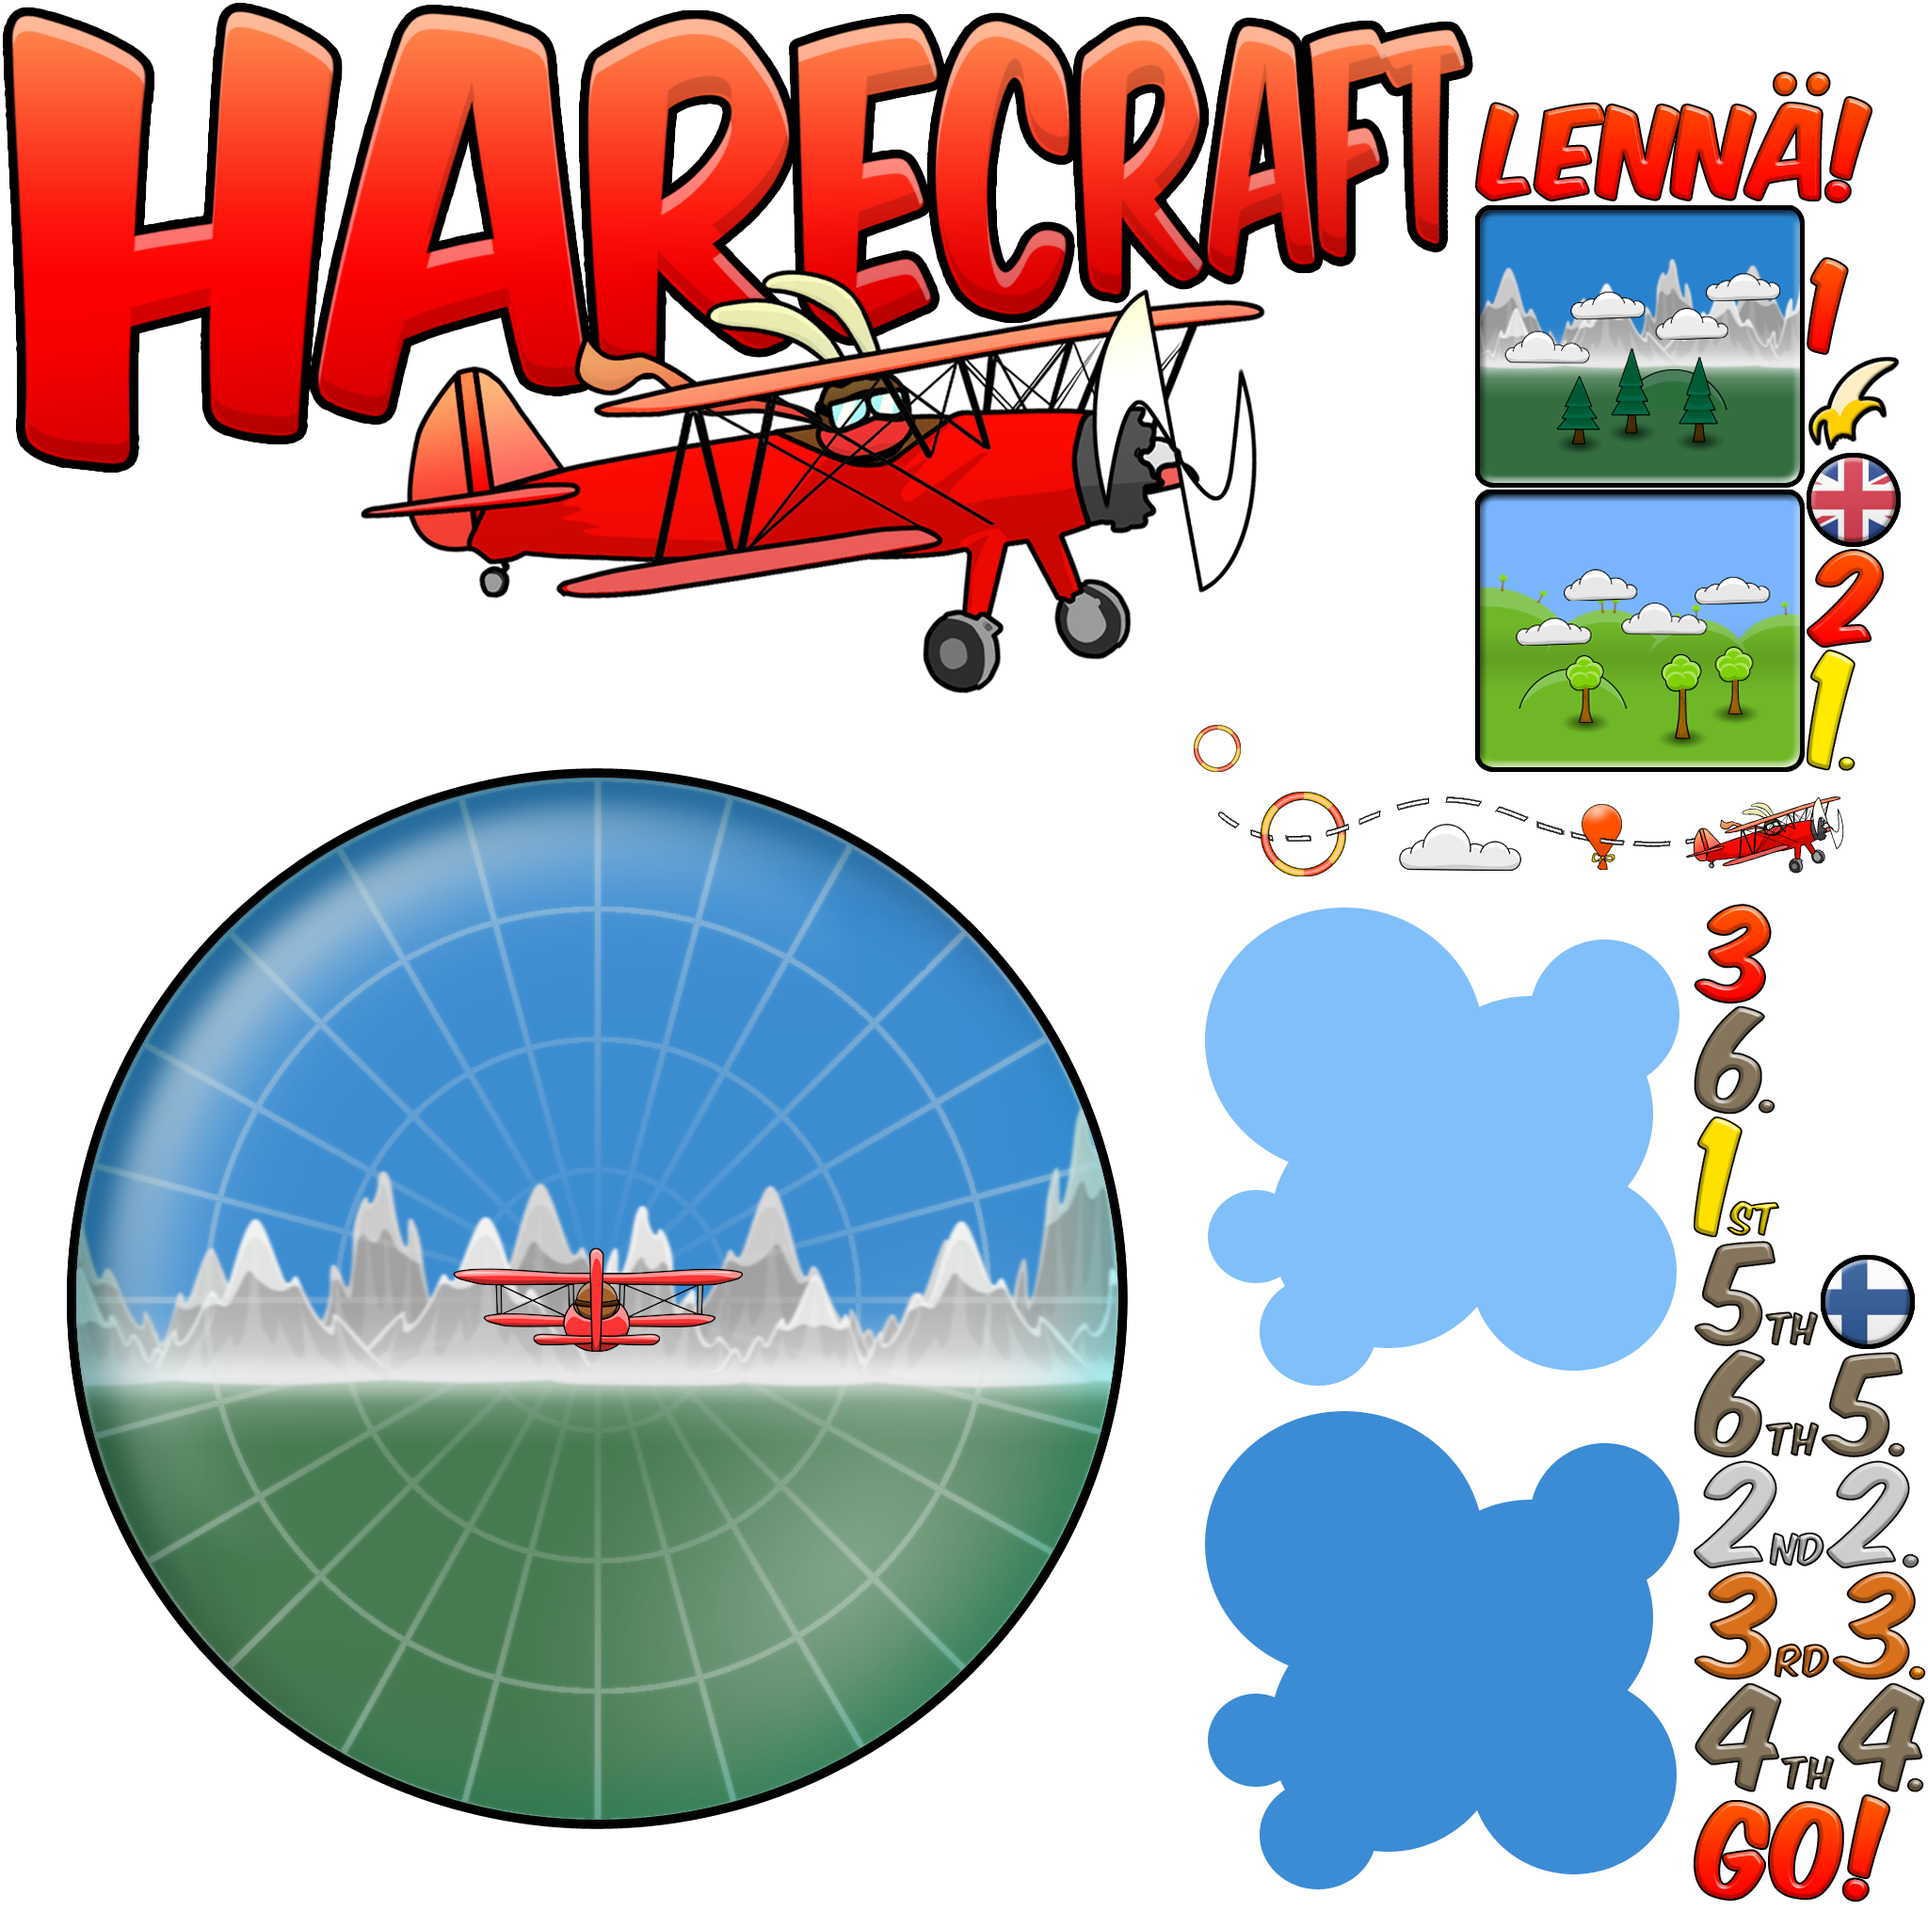
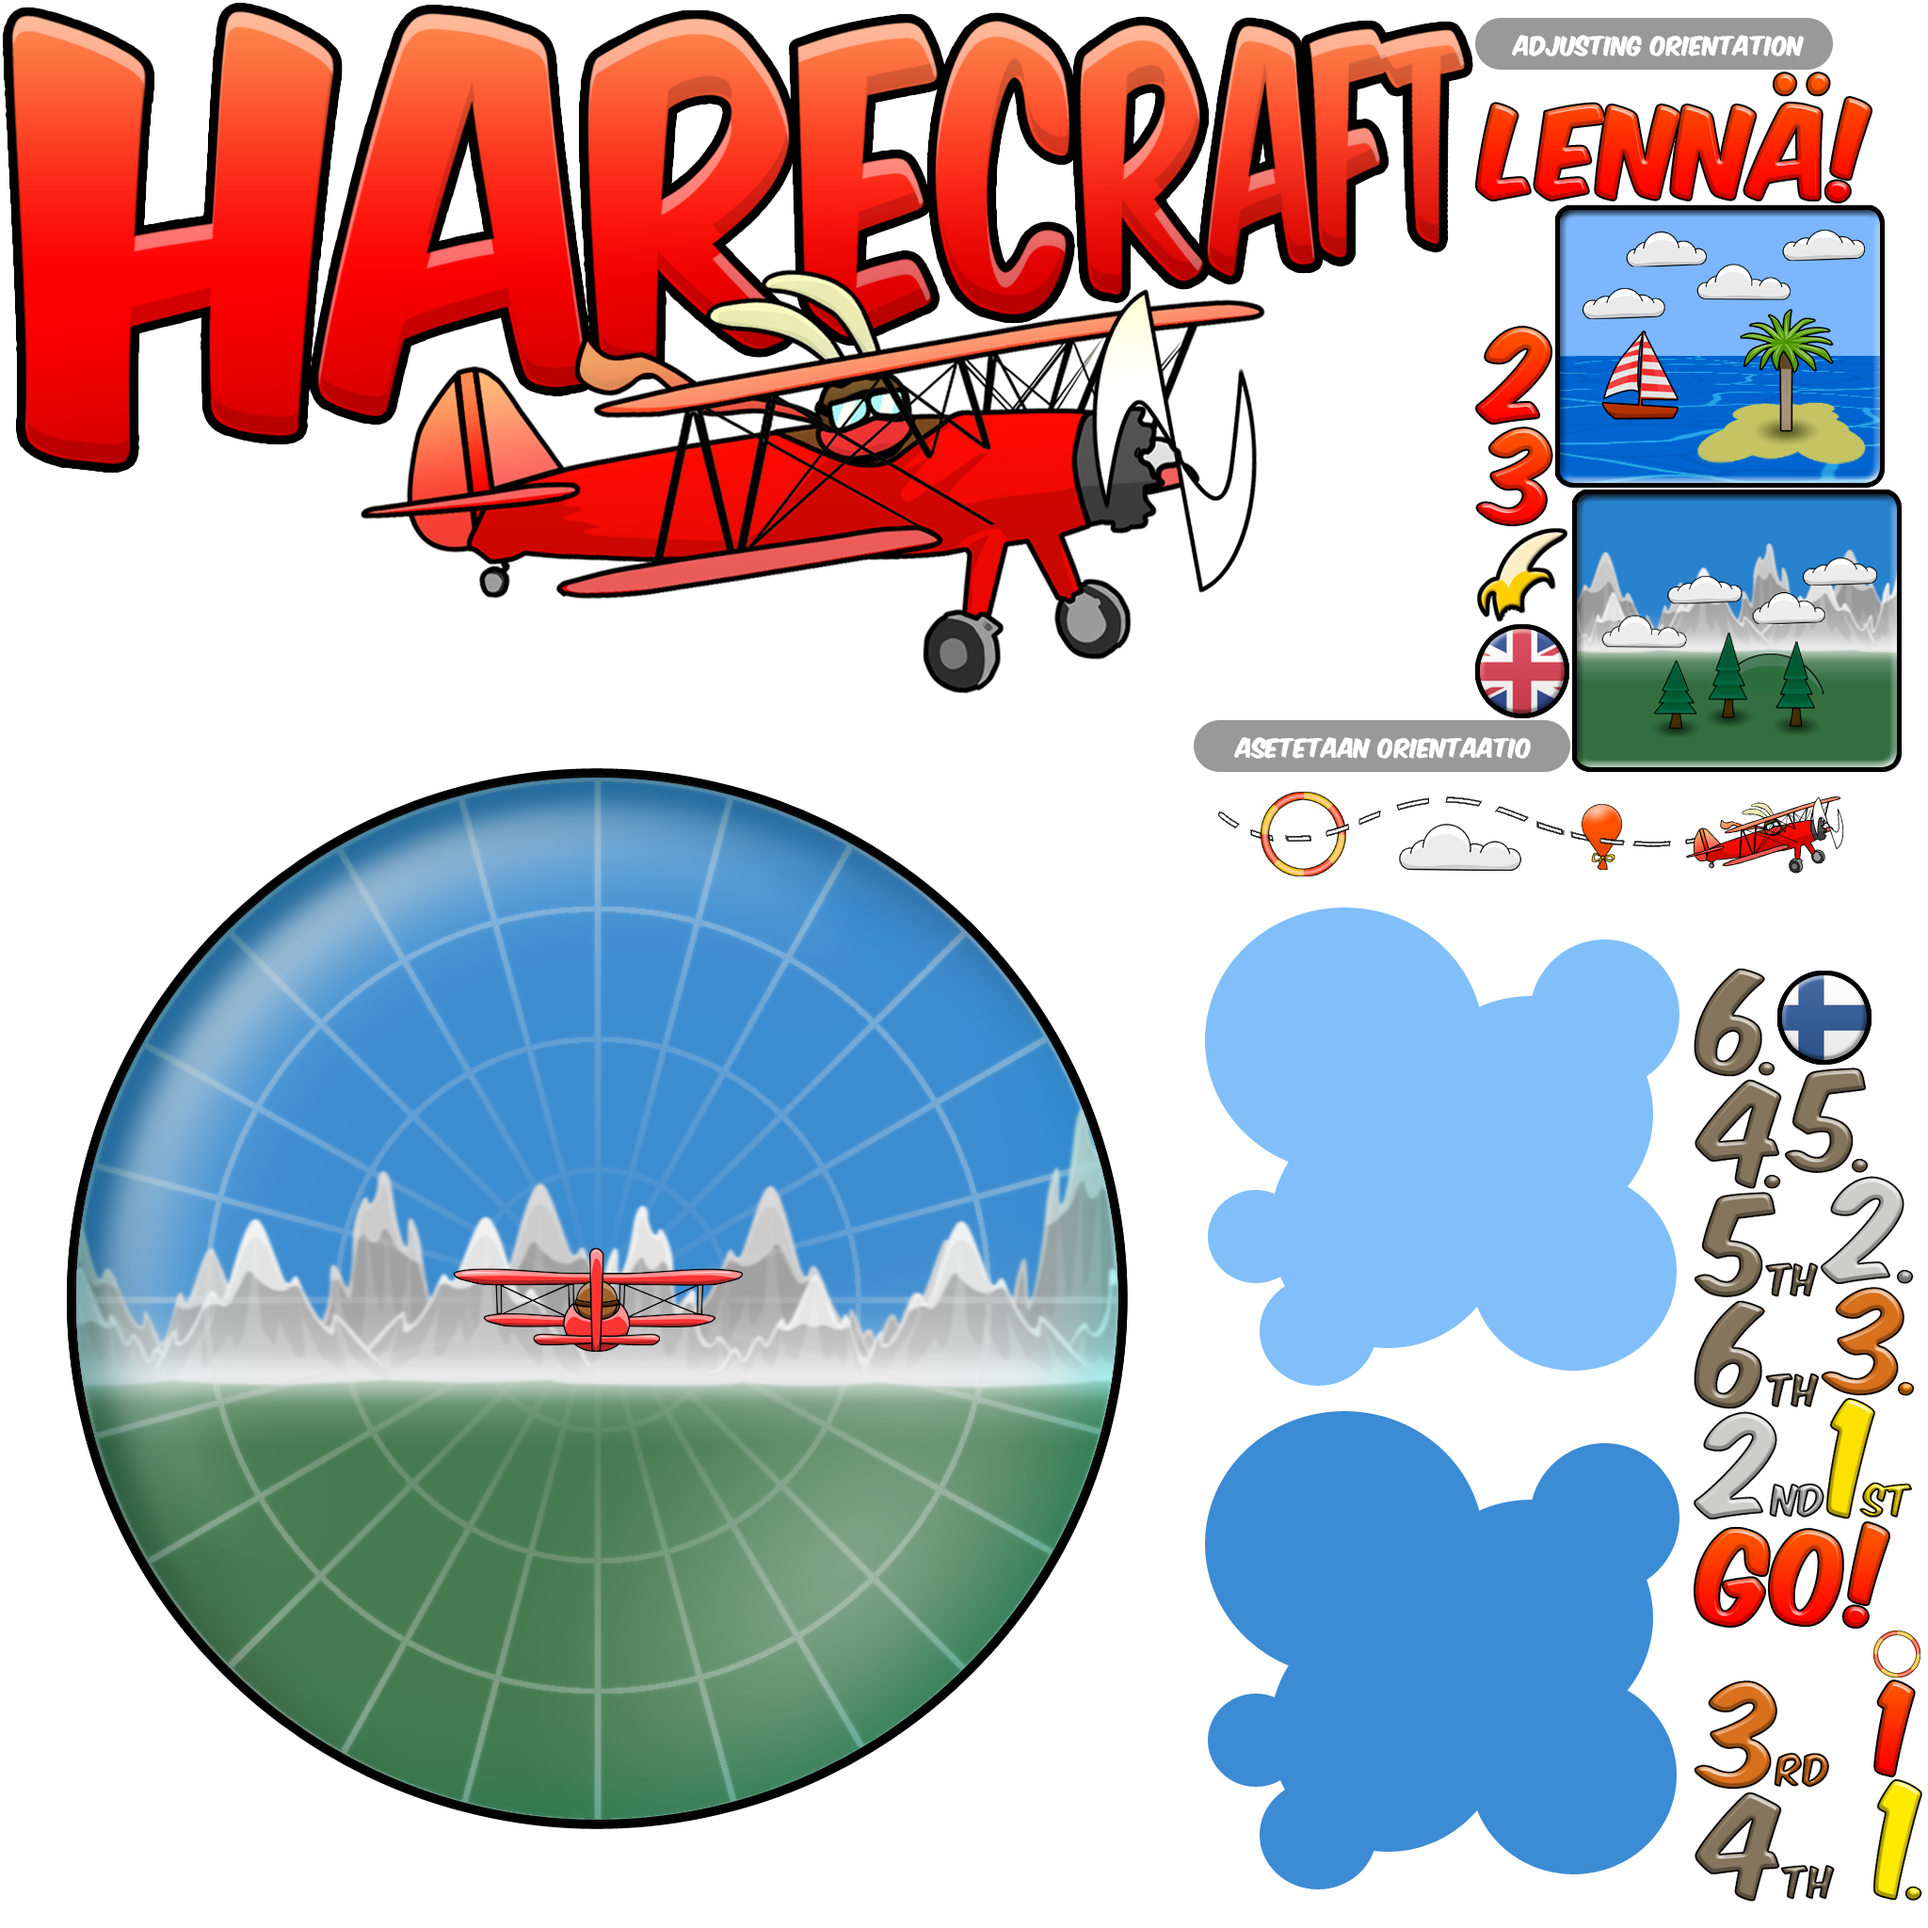
update LOLOLOL

Changed region(s): [[0.5938, 0.0938, 1.0, 0.4062], [0.875, 0.4688, 1.0, 1.0], [0.75, 0.0, 0.9688, 0.0625]]

diff --git a/core/src/fi/tamk/tiko/harecraft/HUD.java b/core/src/fi/tamk/tiko/harecraft/HUD.java
@@ -57,6 +57,7 @@ public class HUD {
     float opacity = 0f;
     float stateOpacity = 0f;
     int count;
+    float yPos2 = 0;
 
     ParticleEffect pfx_placement = new ParticleEffect(Assets.pfx_placement);
     ParticleEffect pfx_placement1 = new ParticleEffect(Assets.pfx_placement1);
@@ -68,6 +69,7 @@ public class HUD {
     TextureRegion ringRegion = new TextureRegion();
     TextureRegion balloonRegion = new TextureRegion();
     TextureRegion arrowsRegion = new TextureRegion();
+    TextureRegion adjustingRegion = new TextureRegion();
     String language;
 
     public HUD(World world, final GameScreen gameScreen) {
@@ -93,6 +95,11 @@ public class HUD {
             default:
                 break;
         }
+
+        if(Gdx.app.getPreferences("ProfileFile").getString("Language").contains("Finnish")) {
+            adjustingRegion = Assets.texR_asettaa;
+        }
+        else adjustingRegion = Assets.texR_adjusting;
 
         pfx_placement.allowCompletion();
         pfx_placement.getEmitters().get(0).getXScale().setHighMin(120f * (SCREEN_WIDTH/1280f) * 1.25f);
@@ -484,6 +491,23 @@ public class HUD {
 
         sBatch.setColor(1f,1f,1f, stateOpacity);
         sBatch.draw(stateRegion,SCREEN_WIDTH/2f - width/2f, yPos - height/2f, width, height);
+        sBatch.setColor(1f,1f,1f, 1f);
+
+        float adjustOpacity = 0f;
+
+        if(gameState == START || gameState == RACE) {
+            if(count == 1) adjustOpacity = stateOpacity;
+            else if(gameState == RACE){
+                adjustOpacity = stateOpacity;
+                yPos2 -= Gdx.graphics.getDeltaTime() * 20f / stateOpacity;
+            }
+            else if(count == 2 || count == 3 || count == 4) adjustOpacity = 1f;
+            else adjustOpacity = 0f;
+
+        }
+
+        sBatch.setColor(1f,1f,1f, adjustOpacity);
+        sBatch.draw(adjustingRegion, SCREEN_WIDTH/2f - adjustingRegion.getRegionWidth()/2f, SCREEN_HEIGHT/6f - adjustingRegion.getRegionHeight()/2f + yPos2, adjustingRegion.getRegionWidth(), adjustingRegion.getRegionHeight());
         sBatch.setColor(1f,1f,1f, 1f);
     }
 

diff --git a/core/src/fi/tamk/tiko/harecraft/Assets.java b/core/src/fi/tamk/tiko/harecraft/Assets.java
@@ -36,6 +36,7 @@ public class Assets {
     static Texture tex_exerium;
     static Texture tex_projectile;
     static Texture tex_tiko;
+    static Texture tex_lataa;
 
     static TextureRegion texR_background_summer;
     static TextureRegion texR_background_tundra;
@@ -107,6 +108,8 @@ public class Assets {
     static TextureRegion texR_stage1_pressed;
     static TextureRegion texR_stage2_pressed;
     static TextureRegion texR_stage3_pressed;
+    static TextureRegion texR_adjusting;
+    static TextureRegion texR_asettaa;
 
     static TextureAtlas atlas_menu_plane;
     static TextureAtlas atlas_planes;
@@ -193,6 +196,8 @@ public class Assets {
         texR_stage1_pressed = loadAtlasTextureRegion(atlas_1,"stage1p");
         texR_stage2_pressed = loadAtlasTextureRegion(atlas_1,"stage2p");
         texR_stage3_pressed = loadAtlasTextureRegion(atlas_1,"stage3p");
+        texR_asettaa = loadAtlasTextureRegion(atlas_1,"asettaa");
+        texR_adjusting = loadAtlasTextureRegion(atlas_1,"adjusting");
 
         //DECALS
         texR_background_summer = loadAtlasTextureRegion(atlas_1, "bg_summer");
@@ -424,6 +429,8 @@ public class Assets {
         texR_stage1_pressed.getTexture().dispose();
         texR_stage2_pressed.getTexture().dispose();
         texR_stage3_pressed.getTexture().dispose();
+        texR_asettaa.getTexture().dispose();
+        texR_adjusting.getTexture().dispose();
 
         atlas_menu_plane.dispose();
         atlas_planes.dispose();

diff --git a/core/src/fi/tamk/tiko/harecraft/SplashScreen.java b/core/src/fi/tamk/tiko/harecraft/SplashScreen.java
@@ -18,6 +18,7 @@ import static fi.tamk.tiko.harecraft.GameMain.camera;
 import static fi.tamk.tiko.harecraft.GameMain.dBatch;
 import static fi.tamk.tiko.harecraft.GameMain.sBatch;
 import static fi.tamk.tiko.harecraft.GameMain.orthoCamera;
+import static fi.tamk.tiko.harecraft.MainMenu.localizationBundle;
 
 /**
  * Created by musta on 27.4.2018.
@@ -48,13 +49,20 @@ public class SplashScreen extends ScreenAdapter {
         float yOffset = 40f;
         float size = 1.2f;
 
+
+        Assets.tex_lataa = Assets.loadTexture("tex_lataa.png");
         Assets.tex_loading = Assets.loadTexture("tex_loading.png");
         Assets.tex_projectile = Assets.loadTexture("projectile.png");
         Assets.tex_tamk = Assets.loadTexture("tamk.png");
         Assets.tex_tiko = Assets.loadTexture("tiko.png");
         Assets.tex_exerium = Assets.loadTexture("exerium.png");
 
-        loadingSprite = new Sprite(Assets.tex_loading);
+
+        if(Gdx.app.getPreferences("ProfileFile").getString("Language").contains("Finnish")) {
+            loadingSprite = new Sprite(Assets.tex_lataa);
+        }
+        else loadingSprite = new Sprite(Assets.tex_loading);
+
         loadingSprite.setPosition(1280/2 - loadingSprite.getWidth()/2, 800/1.21f - loadingSprite.getHeight()/2);
 
         tamkSprite = new Sprite(Assets.tex_tamk);
